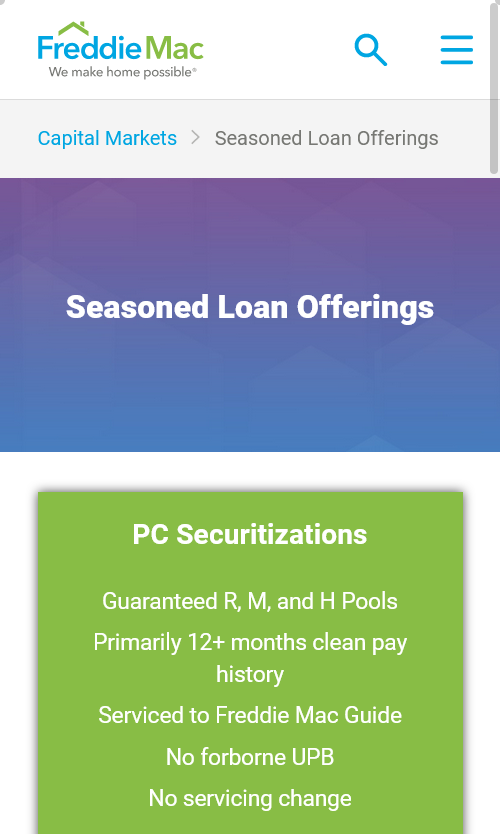
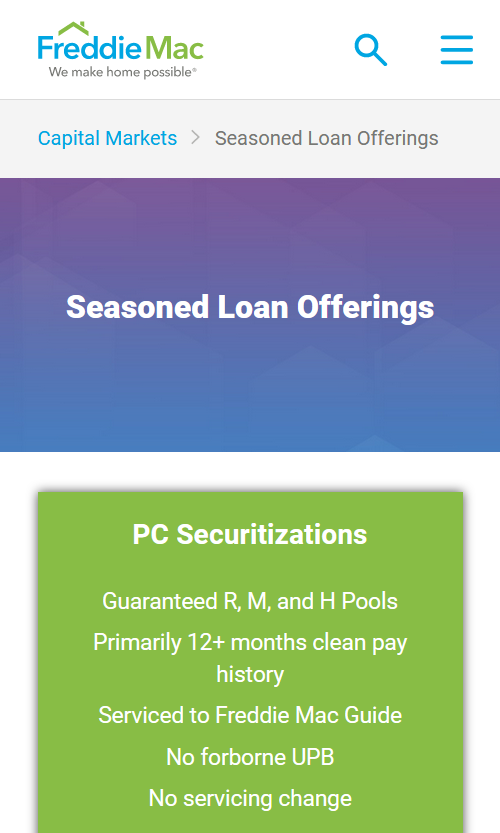
finished case study section

diff --git a/index.html b/index.html
@@ -66,15 +66,13 @@
 
 						<!-- Case Stuides -->
 							<article id="case-studies" class="panel">
-								<header>
+								<header class="title">
 									<h1>Case Study</h1>
 								</header>
 								<section>
 									<div class="case-study fm">
-										<h2 class="title">Freddie Mac</h2>
-										<!-- <h3>Worked with Freddie Mac for 2 and a half years. Primarly worked on the Sharepoint team, but would flex over to the external team to help with the main site: freddiemac.com </h3> -->
 										<div class="row image-container">
-											<div class="col-8 col-8-medium col-12-small">
+											<div class="desktop col-8 col-8-medium col-12-small">
 												<a href="http://www.freddiemac.com/seasonedloanofferings/index.html" target="_blank" class="image fit"><img src="images/season-loan-desktop.png" alt=""></a>
 											</div>
 											<div class="col-4 col-4-medium col-12-small">

diff --git a/assets/css/main.css b/assets/css/main.css
@@ -1399,7 +1399,11 @@ input, select, textarea {
 		}
 
 		h3, h4, h5, h6 {
-			font-size: 1em;
+			font-size: 1.275em;
+		}
+
+		p,li {
+			font-size: 1.25em;
 		}
 
 	}
@@ -2230,5 +2234,11 @@ input, select, textarea {
 				display: flex;
 				flex-direction: column;
 				align-items: center;
+			}
+			.desktop {
+				display: none;
+			}
+			.title {
+				text-align: center;
 			}
 		}
